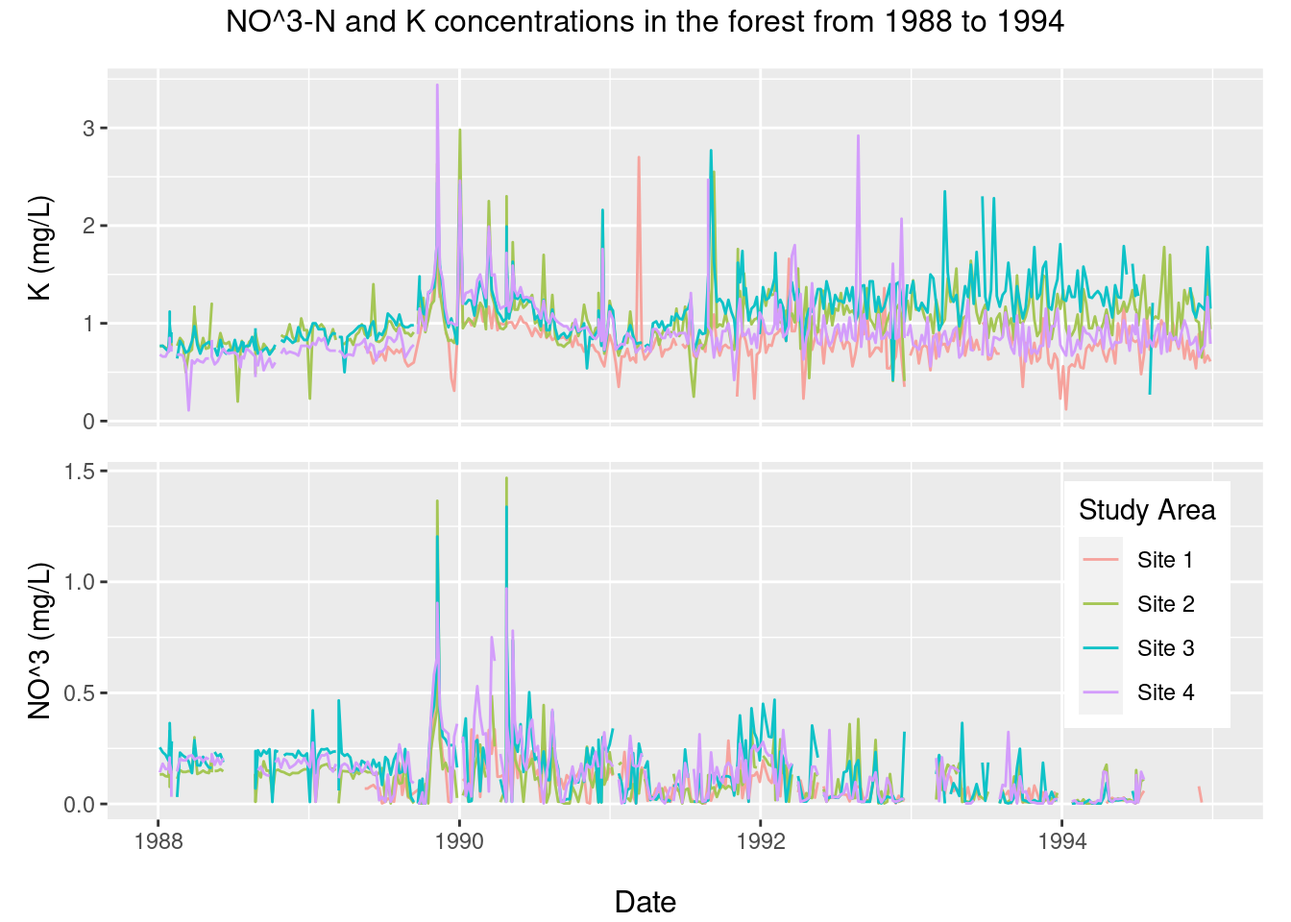
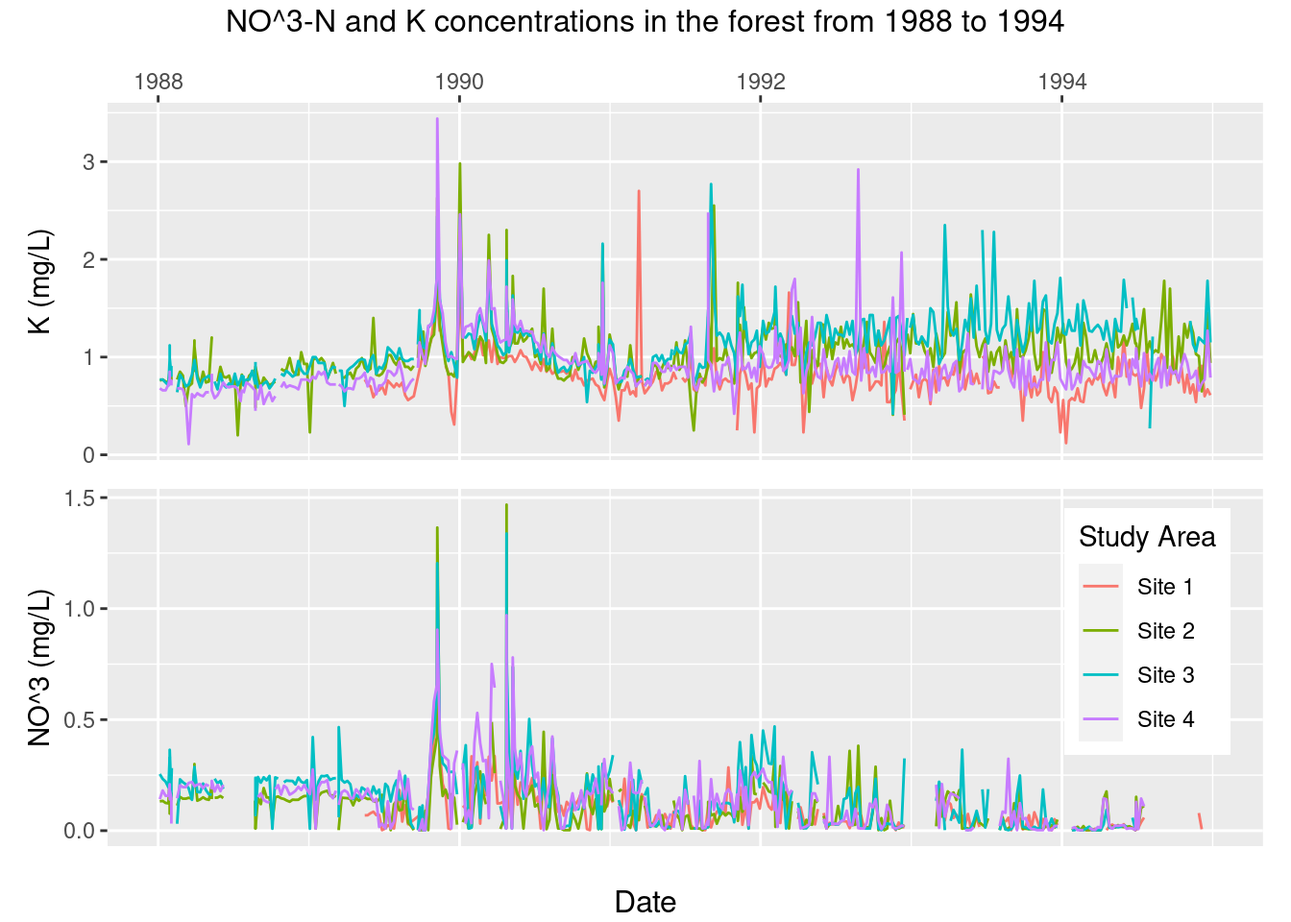
"spellcheck + updated documentation"

diff --git a/group-project-q1.html b/group-project-q1.html
@@ -6,6 +6,7 @@
 
 <meta name="viewport" content="width=device-width, initial-scale=1.0, user-scalable=yes">
 
+<meta name="author" content="Joshua Cohen, Nicole Pepper, Leilanie Rubinstein, Rachel Swick">
 
 <title>Luquillo Stream Data</title>
 <style>
@@ -115,6 +116,12 @@ code span.wa { color: #60a0b0; font-weight: bold; font-style: italic; } /* Warni
 
 <div class="quarto-title-meta">
 
+    <div>
+    <div class="quarto-title-meta-heading">Author</div>
+    <div class="quarto-title-meta-contents">
+             <p>Joshua Cohen, Nicole Pepper, Leilanie Rubinstein, Rachel Swick </p>
+          </div>
+  </div>
     
   
     
@@ -123,130 +130,86 @@ code span.wa { color: #60a0b0; font-weight: bold; font-style: italic; } /* Warni
 
 </header>
 
-
-<section id="quarto-title-here" class="level1">
-<h1>Quarto Title Here</h1>
-<section id="here-we-are-inserting-out-libraries" class="level3">
-<h3 class="anchored" data-anchor-id="here-we-are-inserting-out-libraries">Here we are inserting out libraries</h3>
 <div class="cell">
-<div class="sourceCode cell-code" id="cb1"><pre class="sourceCode r code-with-copy"><code class="sourceCode r"><span id="cb1-1"><a href="#cb1-1" aria-hidden="true" tabindex="-1"></a><span class="fu">library</span>(tidyverse)</span>
-<span id="cb1-2"><a href="#cb1-2" aria-hidden="true" tabindex="-1"></a><span class="fu">library</span>(janitor)</span>
-<span id="cb1-3"><a href="#cb1-3" aria-hidden="true" tabindex="-1"></a><span class="fu">library</span>(plyr)</span>
-<span id="cb1-4"><a href="#cb1-4" aria-hidden="true" tabindex="-1"></a><span class="fu">library</span>(lubridate)</span>
-<span id="cb1-5"><a href="#cb1-5" aria-hidden="true" tabindex="-1"></a><span class="fu">library</span>(patchwork)</span></code><button title="Copy to Clipboard" class="code-copy-button"><i class="bi"></i></button></pre></div>
+<div class="sourceCode cell-code" id="cb1"><pre class="sourceCode r code-with-copy"><code class="sourceCode r"><span id="cb1-1"><a href="#cb1-1" aria-hidden="true" tabindex="-1"></a><span class="fu">rm</span>(<span class="at">list =</span> <span class="fu">ls</span>())</span></code><button title="Copy to Clipboard" class="code-copy-button"><i class="bi"></i></button></pre></div>
+</div>
+<section id="load-packages" class="level3">
+<h3 class="anchored" data-anchor-id="load-packages">Load packages</h3>
+<div class="cell">
+<div class="sourceCode cell-code" id="cb2"><pre class="sourceCode r code-with-copy"><code class="sourceCode r"><span id="cb2-1"><a href="#cb2-1" aria-hidden="true" tabindex="-1"></a><span class="fu">library</span>(tidyverse)</span>
+<span id="cb2-2"><a href="#cb2-2" aria-hidden="true" tabindex="-1"></a><span class="fu">library</span>(janitor)</span>
+<span id="cb2-3"><a href="#cb2-3" aria-hidden="true" tabindex="-1"></a><span class="fu">library</span>(plyr)</span>
+<span id="cb2-4"><a href="#cb2-4" aria-hidden="true" tabindex="-1"></a><span class="fu">library</span>(lubridate)</span>
+<span id="cb2-5"><a href="#cb2-5" aria-hidden="true" tabindex="-1"></a><span class="fu">library</span>(patchwork)</span></code><button title="Copy to Clipboard" class="code-copy-button"><i class="bi"></i></button></pre></div>
 </div>
 </section>
-<section id="next-we-called-in-our-data-and-cleaned-it" class="level3">
-<h3 class="anchored" data-anchor-id="next-we-called-in-our-data-and-cleaned-it">Next, we called in our data and cleaned it</h3>
+<section id="load-in-and-clean-data" class="level3">
+<h3 class="anchored" data-anchor-id="load-in-and-clean-data">Load in and clean data</h3>
 <div class="cell">
-<div class="sourceCode cell-code" id="cb2"><pre class="sourceCode r code-with-copy"><code class="sourceCode r"><span id="cb2-1"><a href="#cb2-1" aria-hidden="true" tabindex="-1"></a><span class="co"># read in data and clean NAs</span></span>
-<span id="cb2-2"><a href="#cb2-2" aria-hidden="true" tabindex="-1"></a><span class="co"># clean names to lower snake case</span></span>
-<span id="cb2-3"><a href="#cb2-3" aria-hidden="true" tabindex="-1"></a>dream_stream_team_path <span class="ot">=</span> <span class="st">"/courses/EDS214/group_project/2024/dream_stream_team/raw_data"</span></span>
-<span id="cb2-4"><a href="#cb2-4" aria-hidden="true" tabindex="-1"></a></span>
-<span id="cb2-5"><a href="#cb2-5" aria-hidden="true" tabindex="-1"></a>Q1 <span class="ot">&lt;-</span> <span class="fu">read_csv</span>(<span class="fu">file.path</span>(dream_stream_team_path, <span class="st">"QuebradaCuenca1-Bisley.csv"</span>), <span class="at">na =</span> <span class="st">"-9999"</span>) <span class="sc">%&gt;%</span> </span>
-<span id="cb2-6"><a href="#cb2-6" aria-hidden="true" tabindex="-1"></a>  <span class="fu">clean_names</span>() <span class="sc">|&gt;</span></span>
-<span id="cb2-7"><a href="#cb2-7" aria-hidden="true" tabindex="-1"></a>  <span class="fu">mutate</span>(<span class="at">date =</span> <span class="fu">mdy</span>(sample_date))</span>
-<span id="cb2-8"><a href="#cb2-8" aria-hidden="true" tabindex="-1"></a></span>
-<span id="cb2-9"><a href="#cb2-9" aria-hidden="true" tabindex="-1"></a>Q2 <span class="ot">&lt;-</span> <span class="fu">read_csv</span>(<span class="fu">file.path</span>(dream_stream_team_path, <span class="st">"QuebradaCuenca2-Bisley.csv"</span>), <span class="at">na =</span> <span class="st">"-9999"</span>) <span class="sc">%&gt;%</span> </span>
-<span id="cb2-10"><a href="#cb2-10" aria-hidden="true" tabindex="-1"></a>  <span class="fu">clean_names</span>() <span class="sc">|&gt;</span></span>
-<span id="cb2-11"><a href="#cb2-11" aria-hidden="true" tabindex="-1"></a>  <span class="fu">mutate</span>(<span class="at">sample_date =</span> <span class="fu">str_replace</span>(sample_date,</span>
-<span id="cb2-12"><a href="#cb2-12" aria-hidden="true" tabindex="-1"></a>                                   <span class="at">pattern =</span> <span class="st">" 0:00"</span>,</span>
-<span id="cb2-13"><a href="#cb2-13" aria-hidden="true" tabindex="-1"></a>                                   <span class="at">replacement =</span> <span class="st">""</span>)) <span class="sc">|&gt;</span></span>
-<span id="cb2-14"><a href="#cb2-14" aria-hidden="true" tabindex="-1"></a>  <span class="fu">mutate</span>(<span class="at">date =</span> <span class="fu">mdy</span>(sample_date))</span>
-<span id="cb2-15"><a href="#cb2-15" aria-hidden="true" tabindex="-1"></a></span>
-<span id="cb2-16"><a href="#cb2-16" aria-hidden="true" tabindex="-1"></a>Q3 <span class="ot">&lt;-</span> <span class="fu">read_csv</span>(<span class="fu">file.path</span>(dream_stream_team_path, <span class="st">"QuebradaCuenca3-Bisley.csv"</span>), <span class="at">na =</span> <span class="st">"-9999"</span>) <span class="sc">%&gt;%</span> </span>
-<span id="cb2-17"><a href="#cb2-17" aria-hidden="true" tabindex="-1"></a>  <span class="fu">clean_names</span>() <span class="sc">|&gt;</span></span>
-<span id="cb2-18"><a href="#cb2-18" aria-hidden="true" tabindex="-1"></a>  <span class="fu">mutate</span>(<span class="at">date =</span> <span class="fu">mdy</span>(sample_date))</span>
-<span id="cb2-19"><a href="#cb2-19" aria-hidden="true" tabindex="-1"></a></span>
-<span id="cb2-20"><a href="#cb2-20" aria-hidden="true" tabindex="-1"></a>PRM <span class="ot">&lt;-</span> <span class="fu">read_csv</span>(<span class="fu">file.path</span>(dream_stream_team_path, <span class="st">"RioMameyesPuenteRoto.csv"</span>), <span class="at">na =</span> <span class="st">"-9999"</span>) <span class="sc">%&gt;%</span> </span>
-<span id="cb2-21"><a href="#cb2-21" aria-hidden="true" tabindex="-1"></a>  <span class="fu">clean_names</span>() <span class="sc">|&gt;</span></span>
-<span id="cb2-22"><a href="#cb2-22" aria-hidden="true" tabindex="-1"></a>  <span class="fu">mutate</span>(<span class="at">date =</span> <span class="fu">mdy</span>(sample_date))</span></code><button title="Copy to Clipboard" class="code-copy-button"><i class="bi"></i></button></pre></div>
+<div class="sourceCode cell-code" id="cb3"><pre class="sourceCode r code-with-copy"><code class="sourceCode r"><span id="cb3-1"><a href="#cb3-1" aria-hidden="true" tabindex="-1"></a><span class="co"># read in data and clean NAs</span></span>
+<span id="cb3-2"><a href="#cb3-2" aria-hidden="true" tabindex="-1"></a><span class="co"># clean names to lower snake case</span></span>
+<span id="cb3-3"><a href="#cb3-3" aria-hidden="true" tabindex="-1"></a>dream_stream_team_path <span class="ot">=</span> <span class="st">"/courses/EDS214/group_project/2024/dream_stream_team/raw_data"</span></span>
+<span id="cb3-4"><a href="#cb3-4" aria-hidden="true" tabindex="-1"></a></span>
+<span id="cb3-5"><a href="#cb3-5" aria-hidden="true" tabindex="-1"></a>Q1 <span class="ot">&lt;-</span> <span class="fu">read_csv</span>(<span class="fu">file.path</span>(dream_stream_team_path, <span class="st">"QuebradaCuenca1-Bisley.csv"</span>), <span class="at">na =</span> <span class="st">"-9999"</span>) <span class="sc">%&gt;%</span> </span>
+<span id="cb3-6"><a href="#cb3-6" aria-hidden="true" tabindex="-1"></a>  <span class="fu">clean_names</span>() <span class="sc">%&gt;%</span> </span>
+<span id="cb3-7"><a href="#cb3-7" aria-hidden="true" tabindex="-1"></a>  <span class="fu">mutate</span>(<span class="at">date =</span> <span class="fu">mdy</span>(sample_date))</span>
+<span id="cb3-8"><a href="#cb3-8" aria-hidden="true" tabindex="-1"></a></span>
+<span id="cb3-9"><a href="#cb3-9" aria-hidden="true" tabindex="-1"></a>Q2 <span class="ot">&lt;-</span> <span class="fu">read_csv</span>(<span class="fu">file.path</span>(dream_stream_team_path, <span class="st">"QuebradaCuenca2-Bisley.csv"</span>), <span class="at">na =</span> <span class="st">"-9999"</span>) <span class="sc">%&gt;%</span> </span>
+<span id="cb3-10"><a href="#cb3-10" aria-hidden="true" tabindex="-1"></a>  <span class="fu">clean_names</span>() <span class="sc">%&gt;%</span> </span>
+<span id="cb3-11"><a href="#cb3-11" aria-hidden="true" tabindex="-1"></a>  <span class="fu">mutate</span>(<span class="at">sample_date =</span> <span class="fu">str_replace</span>(sample_date,</span>
+<span id="cb3-12"><a href="#cb3-12" aria-hidden="true" tabindex="-1"></a>                                   <span class="at">pattern =</span> <span class="st">" 0:00"</span>,</span>
+<span id="cb3-13"><a href="#cb3-13" aria-hidden="true" tabindex="-1"></a>                                   <span class="at">replacement =</span> <span class="st">""</span>)) <span class="sc">%&gt;%</span> </span>
+<span id="cb3-14"><a href="#cb3-14" aria-hidden="true" tabindex="-1"></a>  <span class="fu">mutate</span>(<span class="at">date =</span> <span class="fu">mdy</span>(sample_date))</span>
+<span id="cb3-15"><a href="#cb3-15" aria-hidden="true" tabindex="-1"></a></span>
+<span id="cb3-16"><a href="#cb3-16" aria-hidden="true" tabindex="-1"></a>Q3 <span class="ot">&lt;-</span> <span class="fu">read_csv</span>(<span class="fu">file.path</span>(dream_stream_team_path, <span class="st">"QuebradaCuenca3-Bisley.csv"</span>), <span class="at">na =</span> <span class="st">"-9999"</span>) <span class="sc">%&gt;%</span> </span>
+<span id="cb3-17"><a href="#cb3-17" aria-hidden="true" tabindex="-1"></a>  <span class="fu">clean_names</span>() <span class="sc">%&gt;%</span> </span>
+<span id="cb3-18"><a href="#cb3-18" aria-hidden="true" tabindex="-1"></a>  <span class="fu">mutate</span>(<span class="at">date =</span> <span class="fu">mdy</span>(sample_date))</span>
+<span id="cb3-19"><a href="#cb3-19" aria-hidden="true" tabindex="-1"></a></span>
+<span id="cb3-20"><a href="#cb3-20" aria-hidden="true" tabindex="-1"></a>PRM <span class="ot">&lt;-</span> <span class="fu">read_csv</span>(<span class="fu">file.path</span>(dream_stream_team_path, <span class="st">"RioMameyesPuenteRoto.csv"</span>), <span class="at">na =</span> <span class="st">"-9999"</span>) <span class="sc">%&gt;%</span> </span>
+<span id="cb3-21"><a href="#cb3-21" aria-hidden="true" tabindex="-1"></a>  <span class="fu">clean_names</span>() <span class="sc">%&gt;%</span> </span>
+<span id="cb3-22"><a href="#cb3-22" aria-hidden="true" tabindex="-1"></a>  <span class="fu">mutate</span>(<span class="at">date =</span> <span class="fu">mdy</span>(sample_date))</span></code><button title="Copy to Clipboard" class="code-copy-button"><i class="bi"></i></button></pre></div>
 </div>
 </section>
-<section id="following-we-joined-it-all-together" class="level3">
-<h3 class="anchored" data-anchor-id="following-we-joined-it-all-together">Following, we joined it all together</h3>
+<section id="join-the-individual-site-data-together" class="level3">
+<h3 class="anchored" data-anchor-id="join-the-individual-site-data-together">Join the individual site data together</h3>
 <div class="cell">
-<div class="sourceCode cell-code" id="cb3"><pre class="sourceCode r code-with-copy"><code class="sourceCode r"><span id="cb3-1"><a href="#cb3-1" aria-hidden="true" tabindex="-1"></a><span class="co"># combine all datasets using fulljoin </span></span>
-<span id="cb3-2"><a href="#cb3-2" aria-hidden="true" tabindex="-1"></a>all_data <span class="ot">&lt;-</span> <span class="fu">join_all</span>(<span class="fu">list</span>(Q1, Q2, Q3, PRM), <span class="at">by =</span> <span class="st">'sample_id'</span>, <span class="at">type =</span> <span class="st">'full'</span>)</span></code><button title="Copy to Clipboard" class="code-copy-button"><i class="bi"></i></button></pre></div>
+<div class="sourceCode cell-code" id="cb4"><pre class="sourceCode r code-with-copy"><code class="sourceCode r"><span id="cb4-1"><a href="#cb4-1" aria-hidden="true" tabindex="-1"></a><span class="co"># combine all data sets using `full_join()`</span></span>
+<span id="cb4-2"><a href="#cb4-2" aria-hidden="true" tabindex="-1"></a>all_data <span class="ot">&lt;-</span> <span class="fu">join_all</span>(<span class="fu">list</span>(Q1, Q2, Q3, PRM), <span class="at">by =</span> <span class="st">'sample_id'</span>, <span class="at">type =</span> <span class="st">'full'</span>)</span></code><button title="Copy to Clipboard" class="code-copy-button"><i class="bi"></i></button></pre></div>
 </div>
 </section>
-<section id="next-we-subsetted-out-data" class="level3">
-<h3 class="anchored" data-anchor-id="next-we-subsetted-out-data">Next, we subsetted out data</h3>
-<section id="we-also-converted-ug-to-mg-in-no_3" class="level5">
-<h5 class="anchored" data-anchor-id="we-also-converted-ug-to-mg-in-no_3">We also converted ug to mg in NO_3</h5>
+<section id="subset-data-and-convert-units" class="level3">
+<h3 class="anchored" data-anchor-id="subset-data-and-convert-units">Subset data and convert units</h3>
 <div class="cell">
-<div class="sourceCode cell-code" id="cb4"><pre class="sourceCode r code-with-copy"><code class="sourceCode r"><span id="cb4-1"><a href="#cb4-1" aria-hidden="true" tabindex="-1"></a><span class="co"># select()</span></span>
-<span id="cb4-2"><a href="#cb4-2" aria-hidden="true" tabindex="-1"></a><span class="co"># k, no3, date, sample_id</span></span>
-<span id="cb4-3"><a href="#cb4-3" aria-hidden="true" tabindex="-1"></a><span class="co"># also changed the no3 from ug to mg</span></span>
-<span id="cb4-4"><a href="#cb4-4" aria-hidden="true" tabindex="-1"></a></span>
-<span id="cb4-5"><a href="#cb4-5" aria-hidden="true" tabindex="-1"></a>data_sub <span class="ot">&lt;-</span> all_data <span class="sc">%&gt;%</span> </span>
-<span id="cb4-6"><a href="#cb4-6" aria-hidden="true" tabindex="-1"></a>  <span class="fu">select</span>(sample_id, date, k, no3) <span class="sc">%&gt;%</span> </span>
-<span id="cb4-7"><a href="#cb4-7" aria-hidden="true" tabindex="-1"></a>  <span class="fu">filter</span>(date <span class="sc">&gt;=</span> <span class="st">"1988-01-01"</span> <span class="sc">&amp;</span> date <span class="sc">&lt;=</span> <span class="st">"1994-12-31"</span>) <span class="sc">%&gt;%</span></span>
-<span id="cb4-8"><a href="#cb4-8" aria-hidden="true" tabindex="-1"></a>  <span class="fu">mutate</span>(<span class="at">no3 =</span> no3 <span class="sc">/</span> <span class="dv">1000</span>)</span></code><button title="Copy to Clipboard" class="code-copy-button"><i class="bi"></i></button></pre></div>
+<div class="sourceCode cell-code" id="cb5"><pre class="sourceCode r code-with-copy"><code class="sourceCode r"><span id="cb5-1"><a href="#cb5-1" aria-hidden="true" tabindex="-1"></a>data_sub <span class="ot">&lt;-</span> all_data <span class="sc">%&gt;%</span> </span>
+<span id="cb5-2"><a href="#cb5-2" aria-hidden="true" tabindex="-1"></a>  <span class="fu">select</span>(sample_id, date, k, no3) <span class="sc">%&gt;%</span> </span>
+<span id="cb5-3"><a href="#cb5-3" aria-hidden="true" tabindex="-1"></a>  <span class="fu">filter</span>(date <span class="sc">&gt;=</span> <span class="st">"1988-01-01"</span> <span class="sc">&amp;</span> date <span class="sc">&lt;=</span> <span class="st">"1994-12-31"</span>) <span class="sc">%&gt;%</span></span>
+<span id="cb5-4"><a href="#cb5-4" aria-hidden="true" tabindex="-1"></a>  <span class="fu">mutate</span>(<span class="at">no3 =</span> no3 <span class="sc">/</span> <span class="dv">1000</span>)</span></code><button title="Copy to Clipboard" class="code-copy-button"><i class="bi"></i></button></pre></div>
 </div>
 </section>
-</section>
-<section id="we-make-our-plots-here" class="level3">
-<h3 class="anchored" data-anchor-id="we-make-our-plots-here">We make our plots here</h3>
+<section id="plot-data" class="level3">
+<h3 class="anchored" data-anchor-id="plot-data">Plot data</h3>
 <div class="cell">
-<div class="sourceCode cell-code" id="cb5"><pre class="sourceCode r code-with-copy"><code class="sourceCode r"><span id="cb5-1"><a href="#cb5-1" aria-hidden="true" tabindex="-1"></a><span class="co"># maybe use scale_y_continuous() to deal with the outlier problem, or maybe not</span></span>
-<div class="cell">
-<div class="sourceCode cell-code" id="cb4"><pre class="sourceCode r code-with-copy"><code class="sourceCode r"><span id="cb4-1"><a href="#cb4-1" aria-hidden="true" tabindex="-1"></a><span class="co"># select()</span></span>
-<span id="cb4-2"><a href="#cb4-2" aria-hidden="true" tabindex="-1"></a><span class="co"># k, no3, date, sample_id</span></span>
-<span id="cb4-3"><a href="#cb4-3" aria-hidden="true" tabindex="-1"></a></span>
-<span id="cb4-4"><a href="#cb4-4" aria-hidden="true" tabindex="-1"></a>data_sub <span class="ot">&lt;-</span> all_data <span class="sc">%&gt;%</span> </span>
-<span id="cb4-5"><a href="#cb4-5" aria-hidden="true" tabindex="-1"></a>  <span class="fu">select</span>(sample_id, date, k, no3) <span class="sc">%&gt;%</span> </span>
-<span id="cb4-6"><a href="#cb4-6" aria-hidden="true" tabindex="-1"></a>  <span class="fu">filter</span>(date <span class="sc">&gt;=</span> <span class="st">"1988-01-01"</span> <span class="sc">&amp;</span> date <span class="sc">&lt;=</span> <span class="st">"1994-12-31"</span>)</span></code><button title="Copy to Clipboard" class="code-copy-button"><i class="bi"></i></button></pre></div>
-</div>
-<div class="cell">
-<div class="sourceCode cell-code" id="cb5"><pre class="sourceCode r code-with-copy"><code class="sourceCode r"><span id="cb5-1"><a href="#cb5-1" aria-hidden="true" tabindex="-1"></a><span class="co"># plotting this shit</span></span>
-<span id="cb5-2"><a href="#cb5-2" aria-hidden="true" tabindex="-1"></a></span>
-<span id="cb5-3"><a href="#cb5-3" aria-hidden="true" tabindex="-1"></a><span class="co"># k plot</span></span>
-<span id="cb5-4"><a href="#cb5-4" aria-hidden="true" tabindex="-1"></a>k_plot <span class="ot">&lt;-</span> <span class="fu">ggplot</span>(data_sub, <span class="fu">aes</span>(<span class="at">x =</span> date, <span class="at">y =</span> k, <span class="at">color =</span> sample_id)) <span class="sc">+</span> </span>
-<span id="cb5-5"><a href="#cb5-5" aria-hidden="true" tabindex="-1"></a>  <span class="fu">geom_line</span>(<span class="at">linewidth =</span> <span class="fl">0.5</span>) <span class="sc">+</span> </span>
-<span id="cb5-6"><a href="#cb5-6" aria-hidden="true" tabindex="-1"></a>  <span class="fu">theme</span>(<span class="at">legend.position =</span> <span class="st">"none"</span>) <span class="sc">+</span> </span>
-<span id="cb5-7"><a href="#cb5-7" aria-hidden="true" tabindex="-1"></a>  <span class="fu">labs</span>(<span class="at">y =</span> <span class="st">"K (mg/L)"</span>)  <span class="sc">+</span> </span>
-<span id="cb5-8"><a href="#cb5-8" aria-hidden="true" tabindex="-1"></a>  <span class="fu">scale_color_manual</span>(<span class="at">labels =</span> <span class="fu">c</span>(<span class="st">"Site 1"</span>, <span class="st">"Site 2"</span>, <span class="st">"Site 3"</span>, <span class="st">"Site 4"</span>), <span class="at">values =</span> <span class="fu">c</span>(<span class="st">"#f6a39d"</span>, <span class="st">"#a5c655"</span>, <span class="st">"#0ec2c7"</span>, <span class="st">"#d39dfb"</span>))</span>
-<span id="cb5-9"><a href="#cb5-9" aria-hidden="true" tabindex="-1"></a></span>
-<span id="cb5-10"><a href="#cb5-10" aria-hidden="true" tabindex="-1"></a><span class="co"># no3 plot</span></span>
-<span id="cb5-11"><a href="#cb5-11" aria-hidden="true" tabindex="-1"></a>no3_plot <span class="ot">&lt;-</span> <span class="fu">ggplot</span>(data_sub, <span class="fu">aes</span>(<span class="at">x =</span> date, <span class="at">y =</span> no3, <span class="at">color =</span> sample_id)) <span class="sc">+</span> </span>
-<span id="cb5-12"><a href="#cb5-12" aria-hidden="true" tabindex="-1"></a>  <span class="fu">geom_line</span>(<span class="at">linewidth =</span> <span class="fl">0.5</span>) <span class="sc">+</span> </span>
-<span id="cb5-13"><a href="#cb5-13" aria-hidden="true" tabindex="-1"></a>  <span class="fu">theme</span>(<span class="at">legend.position =</span> <span class="fu">c</span>(<span class="fl">0.9</span>, <span class="fl">0.6</span>)) <span class="sc">+</span> </span>
-<span id="cb5-14"><a href="#cb5-14" aria-hidden="true" tabindex="-1"></a>  <span class="fu">labs</span>(<span class="at">y =</span> <span class="st">"NO^3 (mg/L)"</span>, <span class="at">color =</span> <span class="st">"Study Area"</span>) <span class="sc">+</span> </span>
-<span id="cb5-15"><a href="#cb5-15" aria-hidden="true" tabindex="-1"></a>  <span class="fu">scale_color_manual</span>(<span class="at">labels =</span> <span class="fu">c</span>(<span class="st">"Site 1"</span>, <span class="st">"Site 2"</span>, <span class="st">"Site 3"</span>, <span class="st">"Site 4"</span>), <span class="at">values =</span> <span class="fu">c</span>(<span class="st">"#f6a39d"</span>, <span class="st">"#a5c655"</span>, <span class="st">"#0ec2c7"</span>, <span class="st">"#d39dfb"</span>))</span></code><button title="Copy to Clipboard" class="code-copy-button"><i class="bi"></i></button></pre></div>
+<div class="sourceCode cell-code" id="cb6"><pre class="sourceCode r code-with-copy"><code class="sourceCode r"><span id="cb6-1"><a href="#cb6-1" aria-hidden="true" tabindex="-1"></a><span class="co"># k plot</span></span>
+<span id="cb6-2"><a href="#cb6-2" aria-hidden="true" tabindex="-1"></a>k_plot <span class="ot">&lt;-</span> <span class="fu">ggplot</span>(data_sub, <span class="fu">aes</span>(<span class="at">x =</span> date, <span class="at">y =</span> k, <span class="at">color =</span> sample_id)) <span class="sc">+</span> </span>
+<span id="cb6-3"><a href="#cb6-3" aria-hidden="true" tabindex="-1"></a>  <span class="fu">geom_line</span>(<span class="at">linewidth =</span> <span class="fl">0.5</span>) <span class="sc">+</span> </span>
+<span id="cb6-4"><a href="#cb6-4" aria-hidden="true" tabindex="-1"></a>  <span class="fu">theme</span>(<span class="at">legend.position =</span> <span class="st">"none"</span>) <span class="sc">+</span> </span>
+<span id="cb6-5"><a href="#cb6-5" aria-hidden="true" tabindex="-1"></a>  <span class="fu">labs</span>(<span class="at">y =</span> <span class="st">"K (mg/L)"</span>)  <span class="sc">+</span> </span>
+<span id="cb6-6"><a href="#cb6-6" aria-hidden="true" tabindex="-1"></a>  <span class="fu">scale_color_hue</span>(<span class="at">labels =</span> <span class="fu">c</span>(<span class="st">"Site 1"</span>, <span class="st">"Site 2"</span>, <span class="st">"Site 3"</span>, <span class="st">"Site 4"</span>))</span>
+<span id="cb6-7"><a href="#cb6-7" aria-hidden="true" tabindex="-1"></a></span>
+<span id="cb6-8"><a href="#cb6-8" aria-hidden="true" tabindex="-1"></a><span class="co"># no3 plot</span></span>
+<span id="cb6-9"><a href="#cb6-9" aria-hidden="true" tabindex="-1"></a>no3_plot <span class="ot">&lt;-</span> <span class="fu">ggplot</span>(data_sub, <span class="fu">aes</span>(<span class="at">x =</span> date, <span class="at">y =</span> no3, <span class="at">color =</span> sample_id)) <span class="sc">+</span> </span>
+<span id="cb6-10"><a href="#cb6-10" aria-hidden="true" tabindex="-1"></a>  <span class="fu">geom_line</span>(<span class="at">linewidth =</span> <span class="fl">0.5</span>) <span class="sc">+</span> </span>
+<span id="cb6-11"><a href="#cb6-11" aria-hidden="true" tabindex="-1"></a>  <span class="fu">theme</span>(<span class="at">legend.position =</span> <span class="fu">c</span>(<span class="fl">0.9</span>, <span class="fl">0.6</span>)) <span class="sc">+</span> </span>
+<span id="cb6-12"><a href="#cb6-12" aria-hidden="true" tabindex="-1"></a>  <span class="fu">labs</span>(<span class="at">y =</span> <span class="st">"NO^3 (mg/L)"</span>, <span class="at">color =</span> <span class="st">"Study Area"</span>) <span class="sc">+</span> </span>
+<span id="cb6-13"><a href="#cb6-13" aria-hidden="true" tabindex="-1"></a>  <span class="fu">scale_color_hue</span>(<span class="at">labels =</span> <span class="fu">c</span>(<span class="st">"Site 1"</span>, <span class="st">"Site 2"</span>, <span class="st">"Site 3"</span>, <span class="st">"Site 4"</span>))</span></code><button title="Copy to Clipboard" class="code-copy-button"><i class="bi"></i></button></pre></div>
 </div>
 </section>
-</section>
-<section id="reminder-to-remove-this-later" class="level1">
-<h1>REMINDER TO REMOVE THIS LATER</h1>
-<div class="cell">
-<div class="sourceCode cell-code" id="cb6"><pre class="sourceCode r code-with-copy"><code class="sourceCode r"><span id="cb6-1"><a href="#cb6-1" aria-hidden="true" tabindex="-1"></a><span class="co"># testing something</span></span>
-<span id="cb6-2"><a href="#cb6-2" aria-hidden="true" tabindex="-1"></a></span>
-<span id="cb6-3"><a href="#cb6-3" aria-hidden="true" tabindex="-1"></a><span class="fu">ggplot</span>(data_sub, <span class="fu">aes</span>(<span class="at">x =</span> date, <span class="at">y =</span> k, <span class="at">color =</span> sample_id)) <span class="sc">+</span> </span>
-<span id="cb6-4"><a href="#cb6-4" aria-hidden="true" tabindex="-1"></a>  <span class="fu">geom_line</span>(<span class="at">linewidth =</span> <span class="fl">0.5</span>) <span class="sc">+</span> </span>
-<span id="cb6-5"><a href="#cb6-5" aria-hidden="true" tabindex="-1"></a>  <span class="fu">ggplot</span>(data_sub, <span class="fu">aes</span>(<span class="at">x =</span> date, <span class="at">y =</span> no3, <span class="at">color =</span> sample_id)) <span class="sc">+</span> </span>
-<span id="cb6-6"><a href="#cb6-6" aria-hidden="true" tabindex="-1"></a>  <span class="fu">geom_line</span>(<span class="at">linewidth =</span> <span class="fl">0.5</span>)</span></code><button title="Copy to Clipboard" class="code-copy-button"><i class="bi"></i></button></pre></div>
-<span id="cb5-6"><a href="#cb5-6" aria-hidden="true" tabindex="-1"></a>  <span class="fu">labs</span>(<span class="at">title =</span> <span class="st">"k plot"</span>)</span>
-<span id="cb5-7"><a href="#cb5-7" aria-hidden="true" tabindex="-1"></a></span>
-<span id="cb5-8"><a href="#cb5-8" aria-hidden="true" tabindex="-1"></a><span class="co"># no3 plot</span></span>
-<span id="cb5-9"><a href="#cb5-9" aria-hidden="true" tabindex="-1"></a>no3_plot <span class="ot">&lt;-</span> <span class="fu">ggplot</span>(data_sub, <span class="fu">aes</span>(<span class="at">x =</span> date, <span class="at">y =</span> no3, <span class="at">color =</span> sample_id)) <span class="sc">+</span> </span>
-<span id="cb5-10"><a href="#cb5-10" aria-hidden="true" tabindex="-1"></a>  <span class="fu">geom_line</span>(<span class="at">linewidth =</span> <span class="fl">0.5</span>) <span class="sc">+</span> </span>
-<span id="cb5-11"><a href="#cb5-11" aria-hidden="true" tabindex="-1"></a>  <span class="fu">labs</span>(<span class="at">title =</span> <span class="st">"no3 plot"</span>)</span></code><button title="Copy to Clipboard" class="code-copy-button"><i class="bi"></i></button></pre></div>
-</div>
-<div class="cell">
-<div class="sourceCode cell-code" id="cb6"><pre class="sourceCode r code-with-copy"><code class="sourceCode r"><span id="cb6-1"><a href="#cb6-1" aria-hidden="true" tabindex="-1"></a><span class="co"># facet it</span></span>
-<span id="cb6-2"><a href="#cb6-2" aria-hidden="true" tabindex="-1"></a></span>
-<span id="cb6-3"><a href="#cb6-3" aria-hidden="true" tabindex="-1"></a>k_plot <span class="sc">/</span> no3_plot</span></code><button title="Copy to Clipboard" class="code-copy-button"><i class="bi"></i></button></pre></div>
-<div class="cell-output-display">
-<p><img src="group-project-q1_files/figure-html/unnamed-chunk-6-1.png" class="img-fluid" width="672"></p>
-</div>
-</div>
 <section id="here-we-use-patchwork-to-facet-the-plots" class="level3">
 <h3 class="anchored" data-anchor-id="here-we-use-patchwork-to-facet-the-plots">Here, we use patchwork to facet the plots</h3>
 <div class="cell">
 <div class="sourceCode cell-code" id="cb7"><pre class="sourceCode r code-with-copy"><code class="sourceCode r"><span id="cb7-1"><a href="#cb7-1" aria-hidden="true" tabindex="-1"></a><span class="co"># facet it</span></span>
 <span id="cb7-2"><a href="#cb7-2" aria-hidden="true" tabindex="-1"></a></span>
-<span id="cb7-3"><a href="#cb7-3" aria-hidden="true" tabindex="-1"></a>patch_graph <span class="ot">&lt;-</span> (k_plot <span class="sc">+</span> <span class="fu">theme</span>(<span class="at">axis.title.x =</span> <span class="fu">element_blank</span>(), <span class="at">axis.text.x =</span> <span class="fu">element_blank</span>(), <span class="at">axis.ticks.x =</span> <span class="fu">element_blank</span>())) <span class="sc">/</span> (no3_plot <span class="sc">+</span> <span class="fu">theme</span>(<span class="at">axis.title.x =</span> <span class="fu">element_blank</span>()))</span>
+<span id="cb7-3"><a href="#cb7-3" aria-hidden="true" tabindex="-1"></a>patch_graph <span class="ot">&lt;-</span> (k_plot <span class="sc">+</span> <span class="fu">theme</span>(<span class="at">axis.title.x =</span> <span class="fu">element_blank</span>()) <span class="sc">+</span> <span class="fu">scale_x_date</span>(<span class="at">position =</span> <span class="st">"top"</span>)) <span class="sc">/</span> (no3_plot <span class="sc">+</span> <span class="fu">theme</span>(<span class="at">axis.title.x =</span> <span class="fu">element_blank</span>(), <span class="at">axis.ticks.x =</span> <span class="fu">element_blank</span>(), <span class="at">axis.text.x =</span> <span class="fu">element_blank</span>()))</span>
 <span id="cb7-4"><a href="#cb7-4" aria-hidden="true" tabindex="-1"></a></span>
 <span id="cb7-5"><a href="#cb7-5" aria-hidden="true" tabindex="-1"></a>patchGrob <span class="ot">&lt;-</span> patchwork<span class="sc">::</span><span class="fu">patchworkGrob</span>(patch_graph)</span>
 <span id="cb7-6"><a href="#cb7-6" aria-hidden="true" tabindex="-1"></a>gridExtra<span class="sc">::</span><span class="fu">grid.arrange</span>(patchGrob, <span class="at">bottom =</span> <span class="st">"Date"</span>, <span class="at">top =</span> <span class="st">"NO^3-N and K concentrations in the forest from 1988 to 1994"</span>)</span></code><button title="Copy to Clipboard" class="code-copy-button"><i class="bi"></i></button></pre></div>
@@ -254,7 +217,6 @@ code span.wa { color: #60a0b0; font-weight: bold; font-style: italic; } /* Warni
 <p><img src="group-project-q1_files/figure-html/unnamed-chunk-7-1.png" class="img-fluid" width="672"></p>
 </div>
 </div>
-</section>
 </section>
 
 </main>
